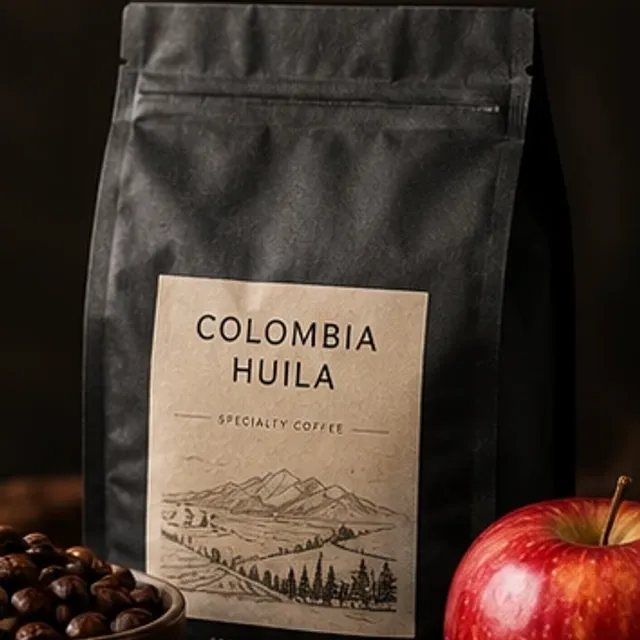
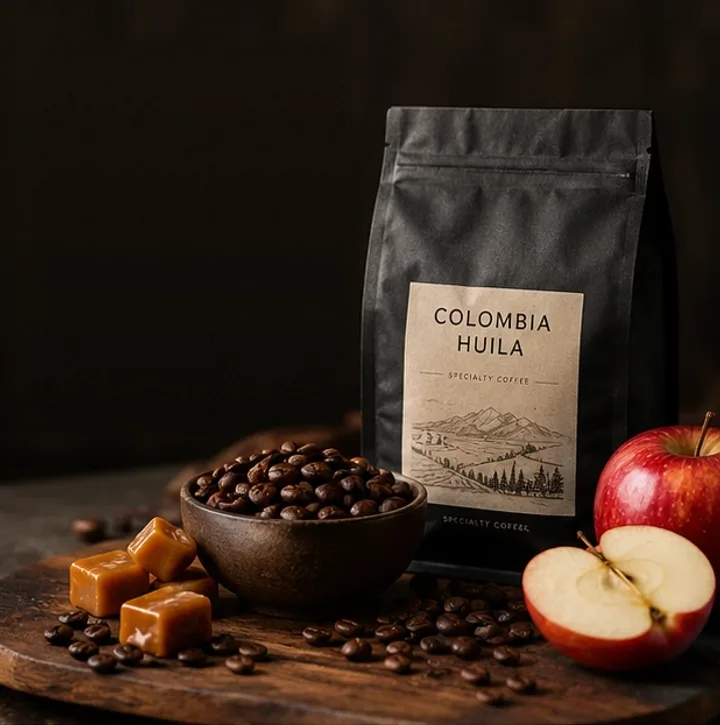
Фото меню без подписей, телефон, Аня и Дима, вопрос «откуда узнали»

diff --git a/components/Lead.tsx b/components/Lead.tsx
@@ -4,6 +4,7 @@ import { useEffect, useRef, useState } from 'react';
 import { PHONE_ERR, TXT } from '@/lib/content';
 import { kvNormalizePhone, kvFormatPhoneInput, kvCreateDedupe } from '@/lib/phone';
 import { getSource } from '@/lib/source';
+import { HEARD, guessHeard } from '@/lib/heard';
 import { CATALOG, FREE_DELIVERY_FROM, MAX_QTY } from '@/lib/catalog';
 
 type Status = 'form' | 'sending' | 'ok' | 'dup' | 'fail';
@@ -23,6 +24,7 @@ export default function Lead() {
   const [phone, setPhone] = useState('');
   const [interest, setInterestState] = useState<Interest>('order');
   const [comment, setComment] = useState('');
+  const [heard, setHeard] = useState('');
   const [company, setCompany] = useState(''); // поле-ловушка для ботов
   const [errName, setErrName] = useState(false);
   const [errPhone, setErrPhone] = useState('');
@@ -30,6 +32,8 @@ export default function Lead() {
   const [qty, setQty] = useState<Record<string, number>>({});
   const [errItems, setErrItems] = useState(false);
   const [status, setStatus] = useState<Status>('form');
+  // если человек пришёл из рекламы или поиска, ответ подставляется сам, его можно поменять
+  useEffect(() => { setHeard((h) => h || guessHeard(getSource())); }, []);
   const total = CATALOG.reduce((sum, c) => sum + (qty[c.id] || 0) * c.price, 0);
   const chosen = CATALOG.filter((c) => (qty[c.id] || 0) > 0);
   const step = (id: string, d: number) => {
@@ -86,7 +90,7 @@ export default function Lead() {
       const res = await fetch('/api/lead', {
         method: 'POST',
         headers: { 'content-type': 'application/json' },
-        body: JSON.stringify({ name, phone, interest, comment, company, source: getSource(), items: interest === 'order' ? chosen.map((c) => ({ id: c.id, qty: qty[c.id] })) : [] }),
+        body: JSON.stringify({ name, phone, interest, comment, heard, company, source: getSource(), items: interest === 'order' ? chosen.map((c) => ({ id: c.id, qty: qty[c.id] })) : [] }),
         signal: ctrl.signal,
       });
       const data = await res.json().catch(() => ({}));
@@ -182,6 +186,18 @@ export default function Lead() {
                   {errItems && <p className="err">Выберите хотя бы одну позицию.</p>}
                 </fieldset>
               )}
+              <fieldset className="fld">
+                <legend>{TXT.heardLegend}</legend>
+                <div className="chips">
+                  {HEARD.map((o) => (
+                    <label className="chip" key={o.id}>
+                      <input type="radio" name="heard" value={o.id} checked={heard === o.id} onChange={() => setHeard(o.id)} />
+                      <span>{o.label}</span>
+                    </label>
+                  ))}
+                </div>
+                <p className="hint">{TXT.heardHint}</p>
+              </fieldset>
               <div className="fld">
                 <label htmlFor="f-comment">{TXT.commentLabel}</label>
                 <textarea id="f-comment" name="comment" placeholder={TXT.commentPh} value={comment} onChange={(e) => setComment(e.target.value)} />

diff --git a/lib/lead.ts b/lib/lead.ts
@@ -1,5 +1,6 @@
 import { kvNormalizePhone } from './phone';
 import { parseItems, type OrderItem } from './catalog';
+import { HEARD } from './heard';
 
 export const INTERESTS = ['subscription', 'order', 'question'] as const;
 export type Interest = (typeof INTERESTS)[number];
@@ -14,7 +15,7 @@ const clip = (v: unknown, n: number) =>
   typeof v === 'string' ? v.replace(/[\x00-\x1f\x7f]/g, ' ').trim().slice(0, n) : '';
 
 export type Parsed =
-  | { ok: true; name: string; e164: string; interest: Interest; comment: string; items: OrderItem[]; total: number; source: Record<string, string>; bot: boolean }
+  | { ok: true; name: string; e164: string; interest: Interest; comment: string; heard: string; items: OrderItem[]; total: number; source: Record<string, string>; bot: boolean }
   | { ok: false; field: 'name' | 'phone' | 'interest' | 'items' | 'body'; reason: string };
 
 /** Проверка тела заявки. Сервер не доверяет браузеру: всё проверяется заново. */
@@ -37,7 +38,7 @@ export function parseLead(body: unknown): Parsed {
     if (v) source[k] = v;
   }
   return {
-    ok: true, name, e164: ph.e164, interest, comment: clip(b.comment, 1000), items: interest === 'order' ? order.items : [], total: interest === 'order' ? order.total : 0, source,
+    ok: true, name, e164: ph.e164, interest, comment: clip(b.comment, 1000), heard: HEARD.find((h) => h.id === b.heard)?.id || '', items: interest === 'order' ? order.items : [], total: interest === 'order' ? order.total : 0, source,
     // скрытое поле-ловушка: человек его не видит и не заполняет
     bot: typeof b.company === 'string' && b.company.trim() !== '',
   };

diff --git a/app/globals.css b/app/globals.css
@@ -111,7 +111,7 @@ body { margin: 0; background: #f3eee5; }
 .row.on .nt { color: rgba(248, 241, 227, .78); }
 .prev { position: relative; border: 2px solid var(--ink); border-radius: 12px; background: var(--paper2); padding: 22px; display: grid; gap: 18px; overflow: hidden; }
 .prev .mono { color: var(--flamed); }
-.prevph { display: block; width: calc(100% + 44px); max-width: none; margin: 0 -22px; aspect-ratio: 1 / 1; max-height: 340px; object-fit: cover; object-position: center 35%; background: #1d1612; }
+.prevph { display: block; width: 100%; height: auto; border-radius: 8px; aspect-ratio: 1 / 1; object-fit: cover; background: #1d1612; }
 .prev .mono { margin-top: 0; }
 .prev .words { font: 800 clamp(30px, 8vw, 44px)/1.05 var(--fd); }
 .prev .bl2:empty { display: none; }
@@ -204,7 +204,7 @@ footer.ft { padding: 28px 0 40px; background: var(--ink); color: rgba(248, 241, 
   .st { padding-right: 24px; }
   .shop { padding: 112px 0 64px; }
   .shop-in { grid-template-columns: minmax(0, 1.1fr) minmax(0, .9fr); gap: 48px; align-items: start; }
-  .prev { position: sticky; top: 88px; }
+  .prev { align-self: start; }
   .sub { padding: 56px 0 112px; }
   .tag { grid-template-columns: minmax(0, 1fr) minmax(0, 1.1fr); gap: 48px; padding: 44px 48px; align-items: center; }
   .meth { padding: 112px 0; }
@@ -247,3 +247,5 @@ footer.ft { padding: 28px 0 40px; background: var(--ink); color: rgba(248, 241, 
 .oi-q output { min-width: 28px; text-align: center; font: 600 18px/1 var(--fm); }
 .ord-sum { margin-top: 10px; font-size: 15px; font-weight: 500; }
 .fld.bad .oi { border-color: #a8311b; }
+
+@media (min-width: 760px) and (min-height: 1000px) { .prev { position: sticky; top: 88px; } }

diff --git a/lib/heard.ts b/lib/heard.ts
@@ -1,0 +1,23 @@
+// «Откуда о нас узнали»: варианты ответа в форме. Список один и для страницы, и для проверки на сервере.
+export const HEARD = [
+  { id: 'instagram', label: 'Instagram' },
+  { id: 'yandex', label: 'Яндекс' },
+  { id: 'google', label: 'Google' },
+  { id: 'telegram', label: 'Telegram' },
+  { id: 'friends', label: 'Посоветовали' },
+  { id: 'other', label: 'Другое' },
+] as const;
+
+export type HeardId = (typeof HEARD)[number]['id'];
+
+export const heardLabel = (id: string): string => HEARD.find((h) => h.id === id)?.label || '';
+
+/** Подсказка по метке рекламы или реферреру: человек может её поправить. */
+export function guessHeard(src: Record<string, string>): HeardId | '' {
+  const s = ((src.utm_source || '') + ' ' + (src.referrer || '')).toLowerCase();
+  if (/instagram|ig\b|l\.instagram/.test(s)) return 'instagram';
+  if (/yandex|ya\.ru|yclid/.test(s) || src.yclid) return 'yandex';
+  if (/google|gclid/.test(s) || src.gclid) return 'google';
+  if (/telegram|t\.me/.test(s)) return 'telegram';
+  return '';
+}

diff --git a/components/sections.tsx b/components/sections.tsx
@@ -199,11 +199,11 @@ export function About() {
     <section className="about" id="about">
       <div className="wrap about-in">
         <figure className="about-ph">
-          <img src="/about.webp" alt="Аня и Дмитрий в обжарочной, за спиной печь и мешки с зелёным кофе" width="900" height="823" loading="lazy" decoding="async" />
+          <img src="/about.webp" alt="Аня и Дима в обжарочной, за спиной печь и мешки с зелёным кофе" width="900" height="823" loading="lazy" decoding="async" />
           <div className="seal" aria-hidden="true"><div><b>2019</b>Минск</div></div>
         </figure>
         <div>
-          <h2 style={{ marginBottom: "20px" }}>Мы, Аня и Дмитрий, раньше работали бариста</h2>
+          <h2 style={{ marginBottom: "20px" }}>Мы, Аня и Дима, раньше работали бариста</h2>
           <p>С 2019 года жарим кофе партиями по 5 кг.</p>
         </div>
       </div>

diff --git a/lib/telegram.ts b/lib/telegram.ts
@@ -1,4 +1,5 @@
 import type { Lead } from './store';
+import { heardLabel } from './heard';
 
 const LABEL = { subscription: 'Подписка', order: 'Разовый заказ', question: 'Вопрос' } as const;
 const esc = (s: string) => s.replace(/&/g, '&amp;').replace(/</g, '&lt;').replace(/>/g, '&gt;');
@@ -25,7 +26,8 @@ export async function notifyTelegram(lead: Lead): Promise<void> {
     'Интересует: ' + LABEL[lead.interest],
     orderText(lead),
     lead.comment ? 'Комментарий: ' + esc(lead.comment) : '',
-    'Откуда: ' + esc(from),
+    lead.heard ? 'Сказал, что узнал из: ' + esc(heardLabel(lead.heard)) : '',
+    'Метки и переход: ' + esc(from),
     s.landing ? 'Страница входа: ' + esc(s.landing) : '',
   ]
     .filter(Boolean)

diff --git a/components/Shop.tsx b/components/Shop.tsx
@@ -42,7 +42,7 @@ export default function Shop() {
           </div>
           <div className="prev" aria-live="polite">
             <p className="mono">{cur.weight}</p>
-            <img className="prevph" key={cur.id} src={'/menu/' + cur.id + '.webp'} alt={PHOTO_ALT[cur.id] || cur.name} width={640} height={cur.id === 'drip' ? 568 : 640} decoding="async" />
+            <img className="prevph" key={cur.id} src={'/menu/' + cur.id + '.webp'} alt={PHOTO_ALT[cur.id] || cur.name} width={720} height={720} decoding="async" />
             <p className="words">{cur.words}</p>
             <p className="bl2">{cur.blurb}</p>
             <p className="pp"><span>{cur.name}</span><b>{cur.price}</b></p>

diff --git a/lib/content.ts b/lib/content.ts
@@ -61,7 +61,9 @@ export const TXT = {
     "Пн–пт: 8:00–20:00",
     "Сб–вс: 10:00–18:00"
   ],
-  "phone": "[ТЕЛЕФОН]",
+  "phone": "+375 29 311-30-24",
+  "heardLegend": "Откуда о нас узнали",
+  "heardHint": "Не обязательно, но нам важно знать",
   "nameLabel": "Имя",
   "namePh": "Как вас зовут",
   "nameErr": "Напишите, как к вам обращаться.",

diff --git a/lib/store.ts b/lib/store.ts
@@ -9,6 +9,7 @@ export type Lead = {
   phone: string;
   interest: 'subscription' | 'order' | 'question';
   comment: string;
+  heard: string;
   items: { id: string; name: string; qty: number; price: number }[];
   total: number;
   source: Record<string, string>;

diff --git a/app/api/lead/route.ts b/app/api/lead/route.ts
@@ -40,6 +40,7 @@ export async function POST(req: Request) {
       phone: p.e164,
       interest: p.interest,
       comment: p.comment,
+      heard: p.heard,
       items: p.items,
       total: p.total,
       source: p.source,

diff --git a/README.md b/README.md
@@ -7,11 +7,12 @@
 
 ## Что сделано
 
-- **Страница.** Герой, история зерна (3D-переход зерно → кружка), блок про свежесть, ассортимент с ценами, подписка, история доставки (3D-переход пачка → фургон → дверь), доставка и самовывоз, «О нас», форма, контакты. Сцены нарисованы кодом, готовых моделей и картинок нет.
+- **Страница.** Герой, история зерна (3D-переход зерно → кружка), блок про свежесть, ассортимент с ценами, подписка, история доставки (3D-переход пачка → фургон → дверь), доставка и самовывоз, «О нас», форма, контакты. 3D-сцены нарисованы кодом; фото в меню и фото основателей присланы заказчиком.
 - **Форма.** Имя, телефон, что интересует (подписка, разовый заказ, вопрос), комментарий. Белорусский номер: маска при вводе, отдельное сообщение под каждую причину отказа (лишние знаки, не +375, неверное число цифр, неверный код оператора).
 - **Корзина в форме.** При выборе «Разовый заказ» появляются позиции меню (три кофе и дрип-пакеты) с кнопками «минус»/«плюс», итог и подсказка про бесплатную доставку от 50 BYN. Сервер сверяет позиции с каталогом `lib/catalog.ts` и сам считает сумму; заказ без позиций не принимается.
 - **Повторная отправка.** Один номер не создаёт вторую заявку 10 минут, в том числе при двойном нажатии. Проверка и в браузере, и на сервере (подробности ниже).
 - **Источник заявки.** UTM-метки, клик-идентификаторы рекламы (`gclid`, `fbclid`, `yclid`), реферер и страница входа сохраняются в браузере и уходят вместе с заявкой. Менеджер видит, из какой рекламы (`utm_campaign`), с какого объявления (`utm_content`) и с какой страницы пришёл человек.
+- **«Откуда о нас узнали».** Необязательные кнопки Instagram, Яндекс, Google, Telegram, «Посоветовали», «Другое». Если человек пришёл по ссылке с меткой или из поиска, ответ подставляется сам, его можно поменять. Ответ человека и автоматические метки хранятся отдельно и приходят в Telegram двумя строками.
 - **Ошибка отправки видна.** Если сервер не ответил или не сохранил, над кнопкой появляется сообщение «Заявка не ушла» и что делать. Номер при этом освобождается, повторная попытка проходит.
 - **Плюсы из ТЗ.** Дублирование заявки в Telegram (включается переменными окружения), превью ссылки (Open Graph), анимации.
 
@@ -105,7 +106,7 @@ Lighthouse, мобильный профиль (симуляция Moto G Power, 
 
 ## Допущения (в ТЗ не сказано, решено самим)
 
-- Телефона и соцсетей в ТЗ нет, на странице стоит `[ТЕЛЕФОН]`, его нужно заменить.
+- Телефона и соцсетей в ТЗ нет, на странице стоит номер владельца из чата (+375 29 311-30-24); соцсетей нет.
 - Доставка меньше 50 BYN платная, цену называют по телефону; адрес уточняется при звонке (в форме поля адреса нет).
 - «На 1–3 день после обжарки» понято как «через 1–3 дня»; откуда берутся второй и третий день при доставке только по пятницам, неясно.
 - Срок перезвона не указан и на странице не обещается.
